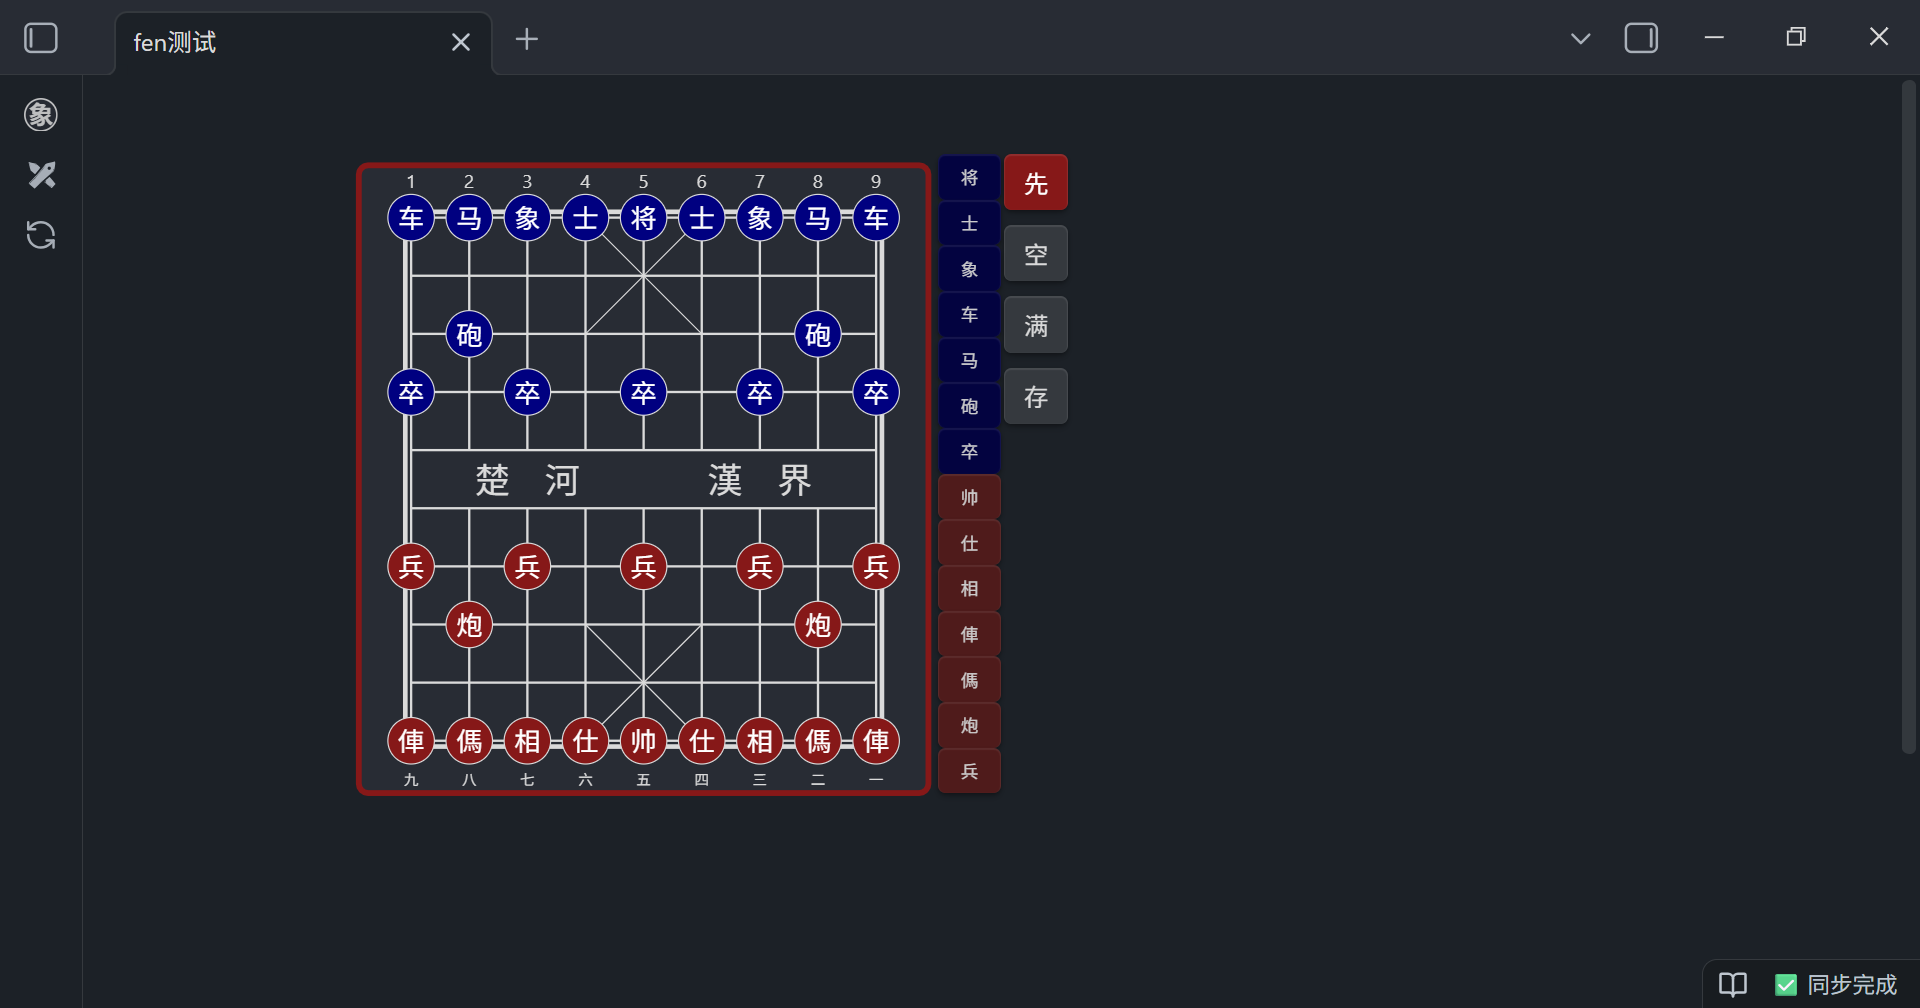
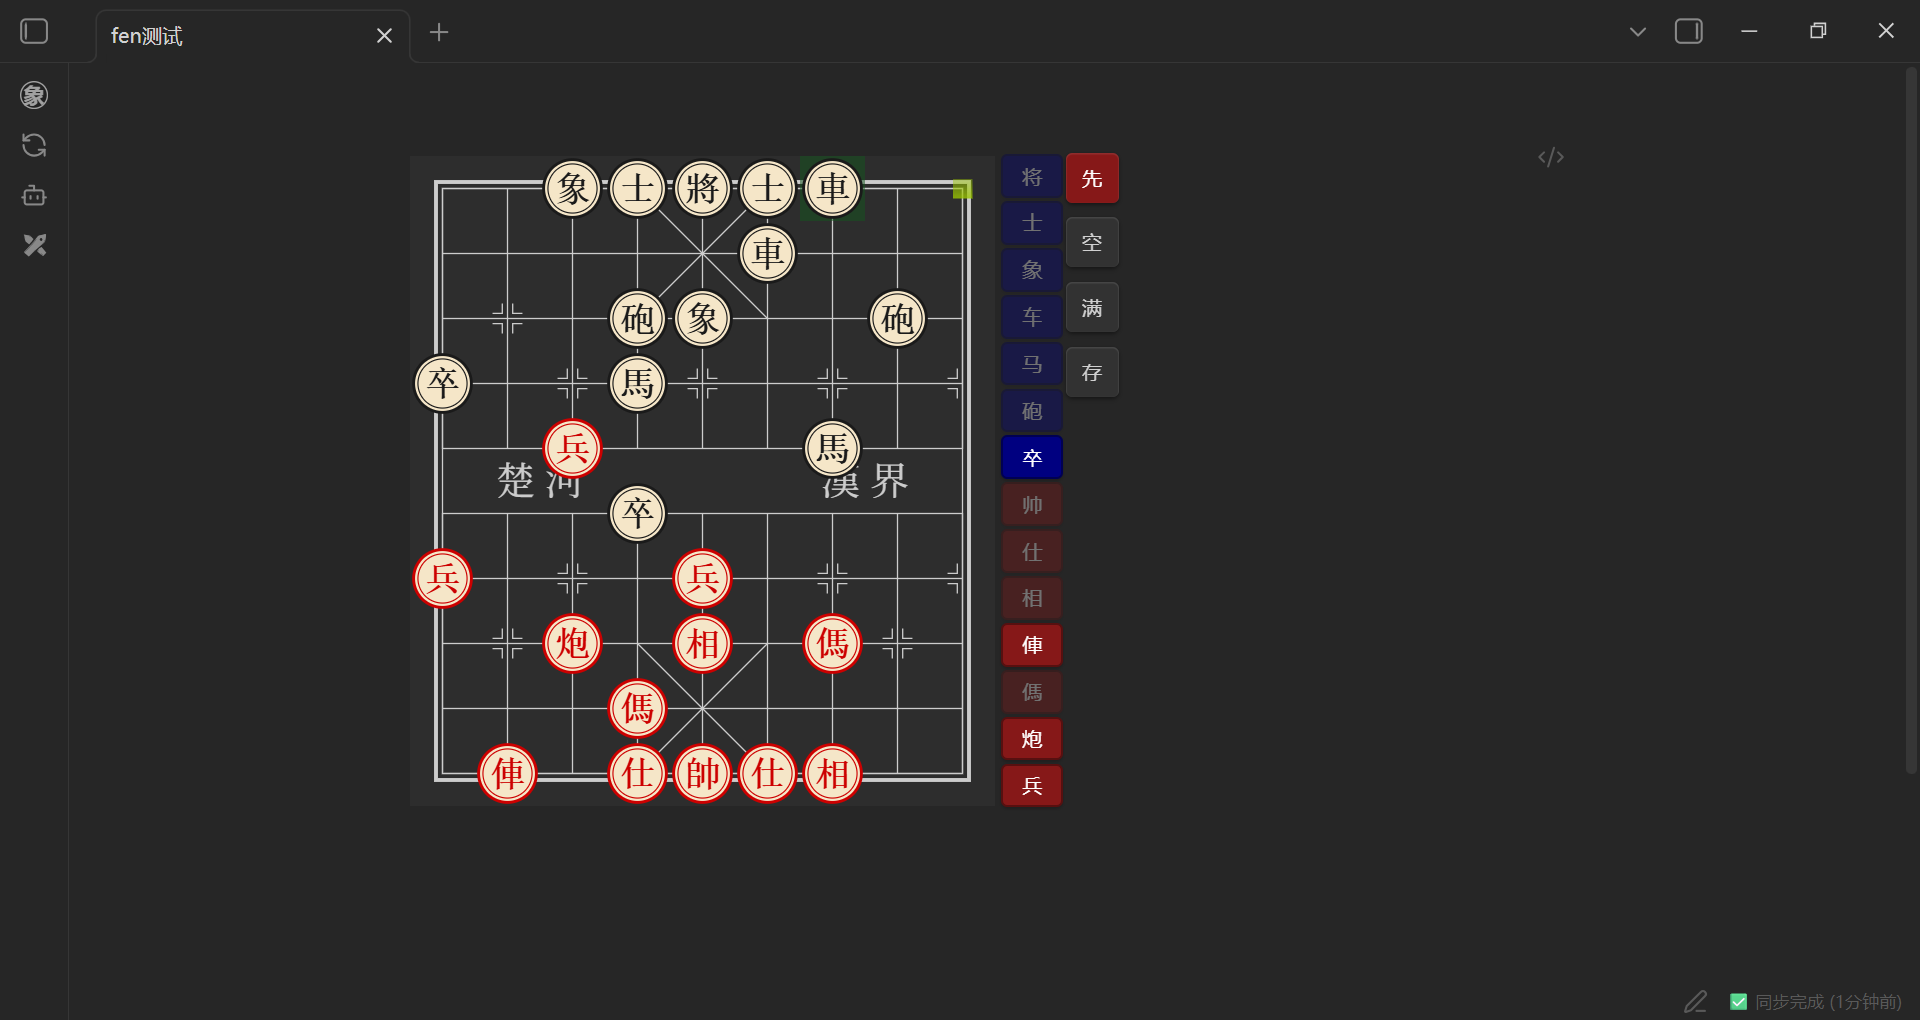
更新md

diff --git a/src/themes.ts b/src/themes.ts
@@ -13,6 +13,8 @@ interface ThemeDef {
 	/** 黑方棋子色 */
 	black: string;
 }
+const tree_red = '#861818';
+const tree_black = '#000080';
 
 const themes: Record<string, ThemeDef> = {
 	wood: {
@@ -20,40 +22,50 @@ const themes: Record<string, ThemeDef> = {
 		bg: "#CBA35C",
 		texture: "repeating-linear-gradient(87deg, rgba(139,90,43,0.25) 0px, rgba(139,90,43,0.25) 2px, transparent 2px, transparent 6px)",
 		grid: "dark",
-		red: "#b24747",
-		black: "#5166b2",
+		// red: "#b24747",
+		// black: "#5166b2",
+		red: tree_red,
+		black: tree_black,
 	},
 	parchment: {
 		name: "羊皮纸",
 		bg: "#d0b899b4",
 		texture: "radial-gradient(ellipse at 40% 30%, rgba(180,170,150,0.3) 0%, transparent 70%)",
 		grid: "dark",
-		red: "#b24747",
-		black: "#3b4b8c",
+		// red: "#b24747",
+		// black: "#3b4b8c",
+		red: tree_red,
+		black: tree_black,
 	},
 	green: {
 		name: "绿绒布",
 		bg: "#2d5a27",
 		texture: "repeating-linear-gradient(0deg, rgba(255,255,255,0.04) 0px, rgba(255,255,255,0.04) 1px, transparent 1px, transparent 3px)",
 		grid: "light",
-		red: "#d44b4b",
-		black: "#8ca3e0",
+		// red: "#d44b4b",
+		// black: "#8ca3e0",
+		red: tree_red,
+		black: tree_black,
 	},
 	light: {
 		name: "经典浅色",
 		bg: "#c8c0b8",
 		texture: "none",
 		grid: "dark",
-		red: "#b24747",
-		black: "#5166b2",
+		// red: "#b24747",
+		// black: "#5166b2",
+		red: tree_red,
+		black: tree_black,
 	},
 	dark: {
 		name: "经典深色",
 		bg: "#2d2d2d",
 		texture: "none",
 		grid: "light",
-		red: "#861818",
-		black: "#2090ff",
+		// red: "#861818",
+		// black: "#2090ff",
+		red: tree_red,
+		black: tree_black,
 	},
 	auto: {
 		name: "自动",

diff --git a/README.md b/README.md
@@ -75,13 +75,15 @@
     - 点击保存时弹出确认提示
     - 若当前无任何走棋记录，保存操作将清空原有 PGN
 - **自定义设置**：
-    - 主题支持深色/浅色/跟随系统
-    - 按钮位置调整（右侧 / 底部）
+    - 棋盘主题：木质、羊皮纸、绿绒布、石纹、经典浅色、经典深色
+    - 棋盘背景三层叠加：网格线 + 纹理 + 底色
+    - 坐标标签随棋盘大小自动缩放
+    - 工具栏位置调整（右侧 / 底部）
     - 棋盘大小
-    - 着法列表是否显示
-    - 着法文字是否显示,及文字调整
+    - 着法列表及其文字显示
+    - 着法文字大小
     - 着法列表是否自动跳转到结尾
-    - 可选是否朗读着法,移动端不支持
+    - 可选是否朗读着法，移动端不支持
 
 - **移动端适配**：通过手动调整棋盘大小和按钮位置，可适配手机等小屏设备
 - **朗读功能**：可选的语音播报走棋内容（可在设置中启用/关闭）

diff --git a/README.en.md b/README.en.md
@@ -20,6 +20,8 @@ This plugin registers a custom view for `.pgn` files. Simply open a `.pgn` file 
 - **Real-time Read/Write**: Any changes to the game (like making moves, adding variations, or comments) are saved back to the original `.pgn` file instantly and automatically.
 - **Full-featured**: Supports variations, comments, and annotations.
 - **Jump to AI**: Supports packaging the current branch to Pikafish web version for analysis.
+- **View Toggling**: Switch between text view and chess view via the file menu.
+- **Quick Create**: Create new PGN files via the toolbar button.
 
 ![PGN File](./IMAGE/PGN文件.png)
 
@@ -73,10 +75,13 @@ Two code block names are supported:
     - Confirm before saving
     - If no moves, saving clears PGN
 - **Settings**:
-    - Theme: light / dark / system
-    - Button position: right / bottom
+    - Board theme: Wood, Parchment, Green Felt, Marble, Classic Light, Classic Dark
+    - 3-layer board background: grid lines + texture + base color
+    - Coordinate labels auto-scale with board size
+    - Toolbar position: right / bottom
     - Board size
     - Show/hide move list and move text
+    - Move text font size
     - Auto-scroll to latest move
     - Optional move narration (not on mobile)
 - **Mobile Friendly**: Manual layout adjustment for small screens